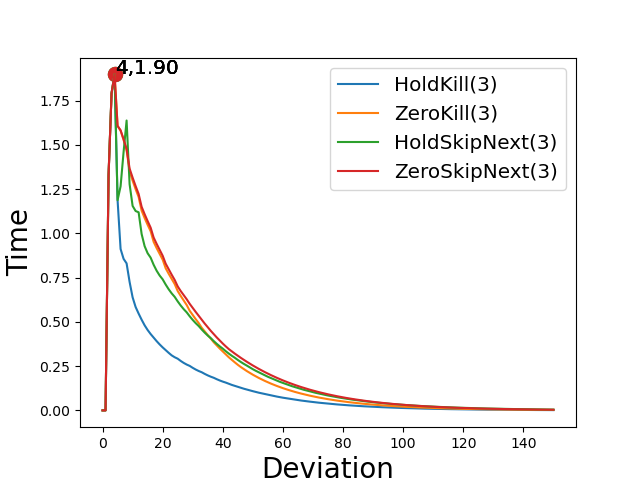
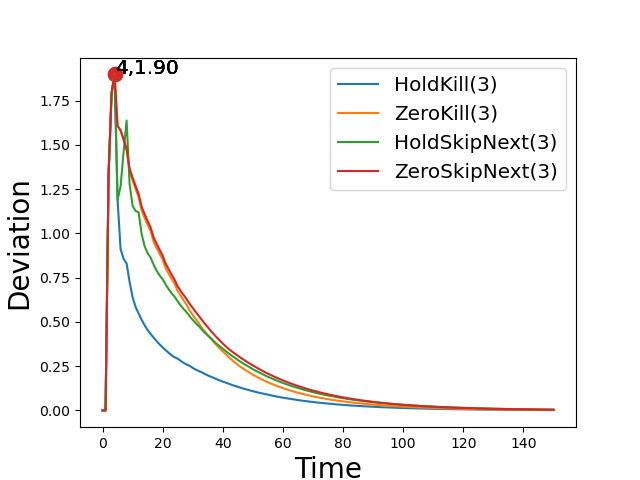
vis changes

Changed region(s): [[0.0, 0.375, 0.0625, 0.6562], [0.4062, 0.9375, 0.625, 1.0]]

diff --git a/lib/Visualization.py b/lib/Visualization.py
@@ -296,8 +296,8 @@ class VizRS:
         T=len(devLists[0])
         X=list(range(T))
         plt.figure()
-        plt.xlabel("Deviation",fontsize=20)
-        plt.ylabel("Time",fontsize=20)
+        plt.xlabel("Time",fontsize=20)
+        plt.ylabel("Deviation",fontsize=20)
 
         for (lb,devList,maxT) in zip(labels,devLists,maxTLists):
             plt.plot(X,devList,label=lb)

diff --git a/src/RCCaseStudy.py b/src/RCCaseStudy.py
@@ -510,7 +510,7 @@ if False:
     T=150
     ULSBased.allPolicies(P)
 
-if False:
+if True:
     P=[(10,10),(10,10)]
     T=150
     max_deadline=3
